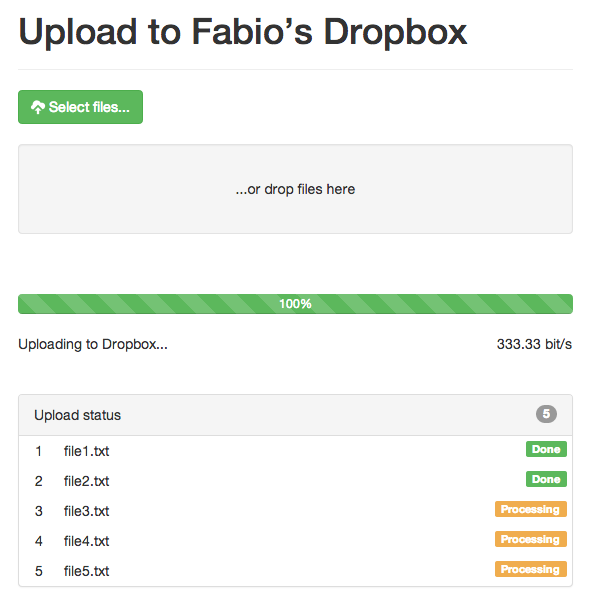
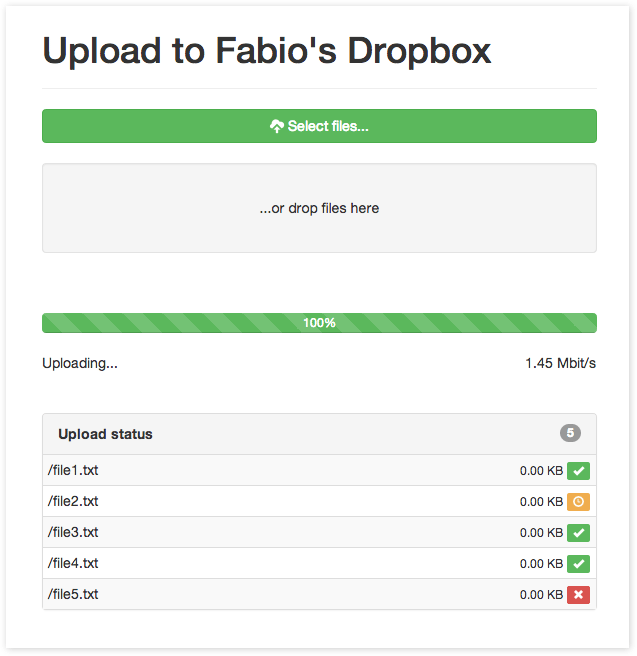
Design changes

diff --git a/js/ready.js b/js/ready.js
@@ -17,9 +17,9 @@ $(function () {
                 $("#upload_count").text(upload_count);
                 $.each(data.files, function (index, file) {
                     var row = '<tr id="file_' + upload_count + '">' +
-                    '<td class="process_count text-center">' + upload_count + '</td>' +
-                    '<td id="filename_' + upload_count + '">/' + file.name + '</td>' +
-                    '<td class="process_status"><span class="label label-warning pull-right">Processing</span></td>' +
+                    '<td><span class="filename">/' + file.name + '</span> ' +
+                    '<span class="pull-right"><small>' + formatFileSize(file.size) + '</small> ' +
+                    '<span class="process_status label label-warning"><span class="glyphicon glyphicon-time"></span></span></span></td>' +
                     '</tr>';
                     $('#file_list tbody').append(row);
                 });
@@ -36,25 +36,25 @@ $(function () {
                         label.addClass('label-danger');
                         label.html('Failed');
                     } else {
-                        $('#filename_' + file.id).text(file.name);
+                        $('#file_' + file.id + " .filename").html(file.name);
                         label.addClass('label-success');
-                        label.text('Done');
+                        label.html('<span class="glyphicon glyphicon-ok"></span>');
                     }
                     done_count++;
                 });
                 if(upload_count==done_count){
                     $("#progress").removeClass('active');
                     $("#progress").removeClass('progress-striped');
-                    $("#upload_status").text('Upload done!');
+                    $("#upload_status").text('Done!');
                 }
             }else if(data.result.error){
                 $("#progress").removeClass('active');
                 $("#progress").removeClass('progress-striped');
                 $("#upload_status").text('Upload failed!');
-                var label = $('.process_status .label');
+                var label = $('.process_status');
                 label.removeClass('label-warning');
                 label.addClass('label-danger');
-                label.html('Failed');
+                label.html('<span class="glyphicon glyphicon-remove"></span>');
             }
         },
         start:  function (e, data) {
@@ -72,6 +72,7 @@ $(function () {
             if(data.loaded < data.total){
                 $("#upload_speed").text(formatBitrate(data.bitrate));
             }else{
+                $("#upload_speed").text('');
                 $("#upload_status").text('Uploading to Dropbox...');
             }
         }
@@ -129,4 +130,15 @@ function formatBitrate(bits) {
     return bits.toFixed(2) + ' bit/s';
 }
 
-    
+function formatFileSize(bytes) {
+    if (typeof bytes !== 'number') {
+        return '';
+    }
+    if (bytes >= 1000000000) {
+        return (bytes / 1000000000).toFixed(2) + ' GB';
+    }
+    if (bytes >= 1000000) {
+        return (bytes / 1000000).toFixed(2) + ' MB';
+    }
+    return (bytes / 1000).toFixed(2) + ' KB';
+}

diff --git a/css/style.css b/css/style.css
@@ -8,11 +8,3 @@
 #dropzone.hover {
     background: #dff0d8;
 }
-
-.process_count {
-    width: 40px;
-}
-
-.process_status {
-    width: 80px;
-}

diff --git a/index.php b/index.php
@@ -31,7 +31,7 @@ require_once "config/config.php";
     <div class="container">
 
       <div class="row">
-        <div class="col-md-offset-3 col-md-6">
+        <div class="col-sm-offset-2 col-sm-8">
             <div class="page-header">
                 <h1><?=$page_title?></h1>
             </div>
@@ -41,7 +41,7 @@ require_once "config/config.php";
             <div id="upload_wrapper">
 
                 <div class="row">
-                    <div class="col-md-12">
+                    <div class="col-sm-12">
                         <span class="btn btn-success btn-block fileinput-button">
                             <i class="glyphicon glyphicon-cloud-upload"></i>
                             <span>Select files...</span>
@@ -70,10 +70,10 @@ require_once "config/config.php";
                 <div id="uploads" class="collapse">
                   <div class="panel panel-default">
                       <!-- Default panel contents -->
-                      <div class="panel-heading">Upload status <span id="upload_count" class="badge pull-right"></span></div>
+                      <div class="panel-heading"><strong>Upload status</strong> <span id="upload_count" class="badge pull-right"></span></div>
 
                       <!-- Table -->
-                      <table id="file_list" class="table table-condensed">
+                      <table id="file_list" class="table table-striped table-bordered table-condensed">
                         <tbody></tbody>
                       </table>
                     </div>
@@ -87,7 +87,7 @@ require_once "config/config.php";
 <?php }else{ ?>
 
             <div id="login" class="row">
-                <div class="col-md-8">
+                <div class="col-sm-8">
                     <form action="/" method="post" role="form">
                         <div class="form-group">
                             <label for="access_code">Enter the correct code to upload files</label>
